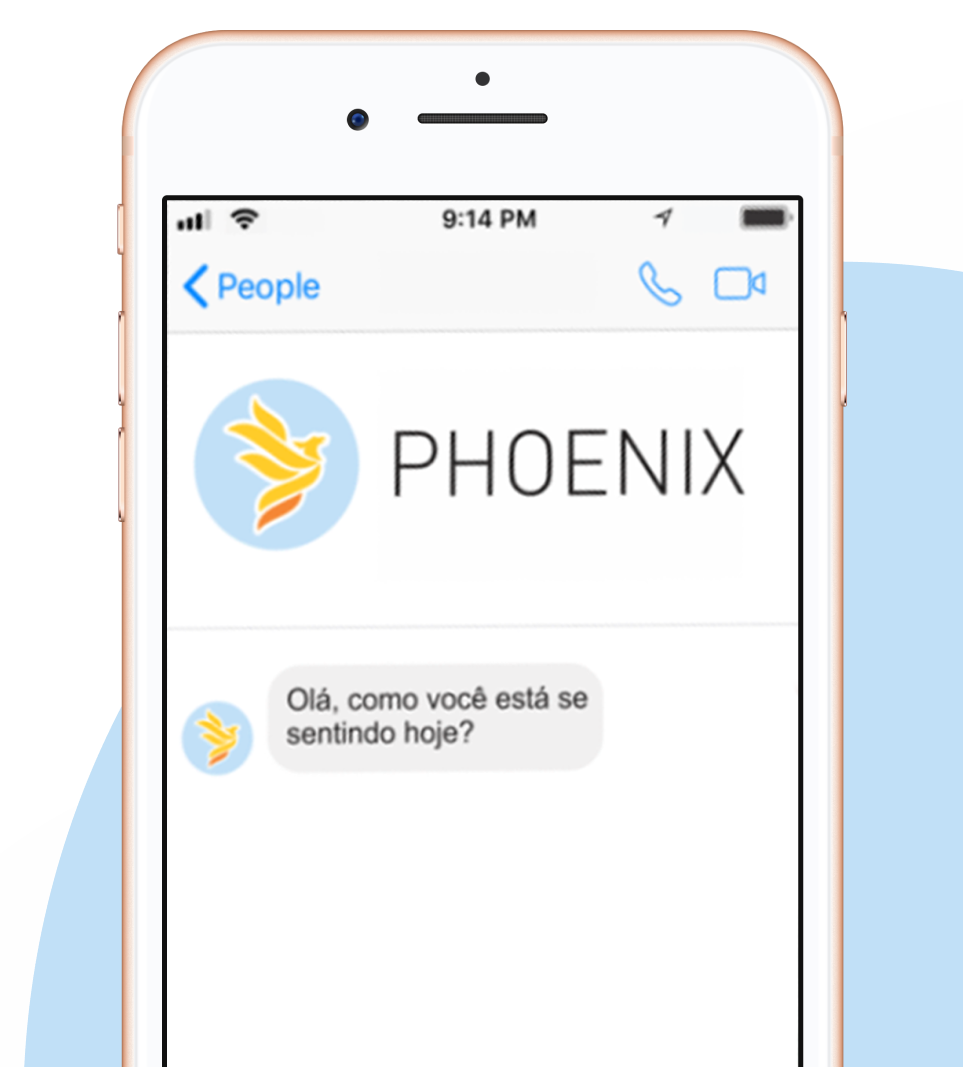
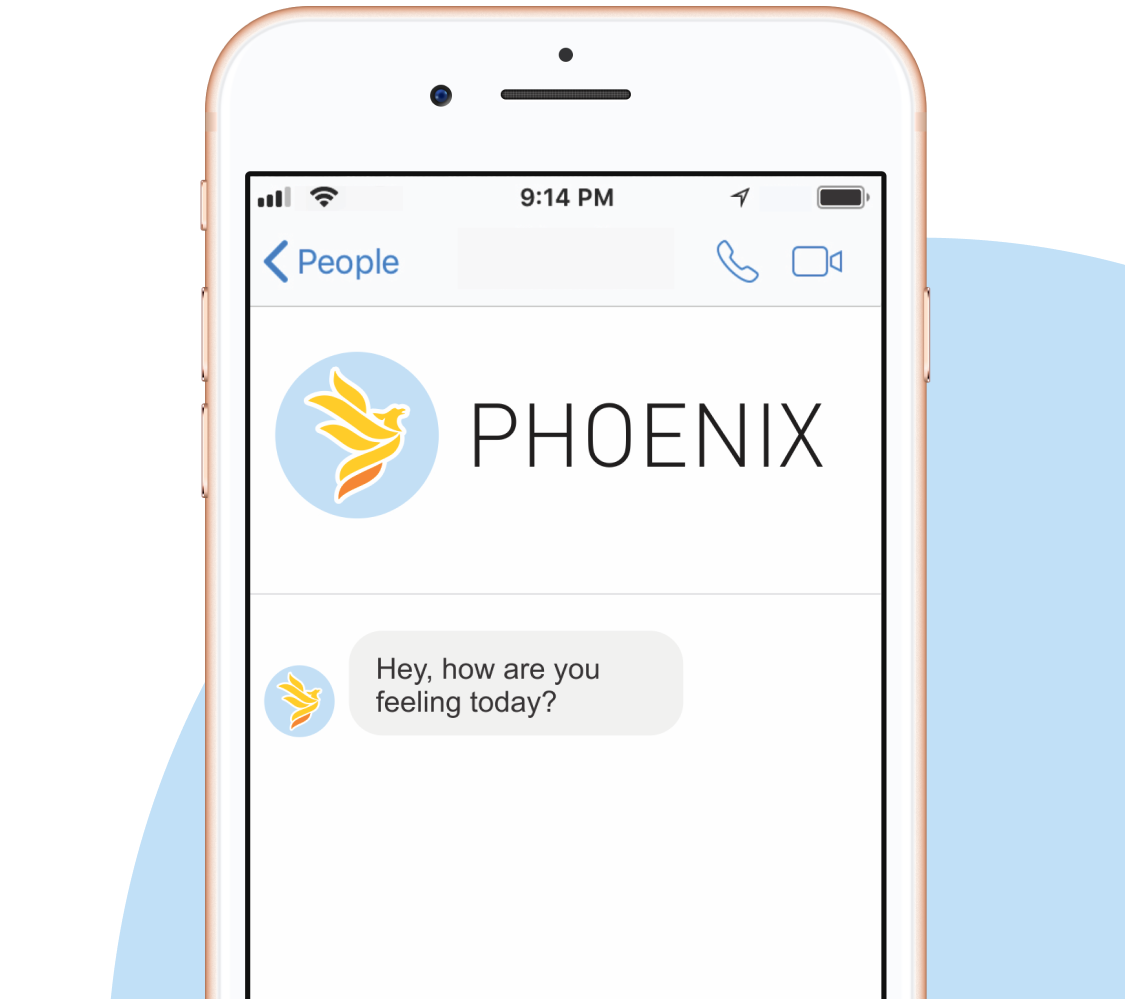
otimizar img

Changed region(s): [[0.0, 0.0, 0.9034, 1.0], [0.9346, 0.2482, 1.0, 0.2793]]

diff --git a/css/index.css b/css/index.css
@@ -1,5 +1,9 @@
 /* Home section */
-.phoneimg_mobile, .subtext_mobile, hr, .logo_mobile {
+
+.phoneimg_mobile,
+.subtext_mobile,
+hr,
+.logo_mobile {
     display: none;
 }
 
@@ -18,7 +22,7 @@
 }
 
 .phoneimg {
-    height: 75vh;
+    height: 80vh;
     right: 0;
     bottom: 0;
 }
@@ -29,28 +33,32 @@
     bottom: 0;
 }
 
-.sobre, .contato {
+.sobre,
+.contato {
     margin-top: 6vh;
     position: relative;
     height: 65vh;
     margin-bottom: 4vh;
 }
 
-.phoenixtxt, .contatoimg {
+.phoenixtxt,
+.contatoimg {
     width: 50vw;
     height: 90%;
     position: absolute;
     left: 0;
 }
 
-.phoeniximg, .contatotxt {
+.phoeniximg,
+.contatotxt {
     width: 50vw;
     height: 90%;
     position: absolute;
     right: 0;
 }
 
-.imgleft, .imgright {
+.imgleft,
+.imgright {
     background: url(../assets/contact.png);
     right: 10%;
     position: absolute;
@@ -115,7 +123,7 @@
     color: #727F84;
 }
 
-.contatoitem{
+.contatoitem {
     text-align: left;
     padding-left: 4%;
     padding-right: 20%;
@@ -172,29 +180,29 @@
 .idcard {
     display: flex;
     padding: 5vh;
-
 }
 
-.idtext{
+.idtext {
     padding: 5vh;
 }
 
-.devs{
-display: flex;
-align-content: center;
-width: fit-content;
+.devs {
+    display: flex;
+    align-content: center;
+    width: fit-content;
 }
-.socialmediaright{
+
+.socialmediaright {
     display: flex;
     float: right;
 }
 
-.socialmedialeft{
+.socialmedialeft {
     display: flex;
     float: left;
 }
 
-.smico{
+.smico {
     height: 6vh;
     padding: 1vh;
 }
@@ -212,7 +220,7 @@ width: fit-content;
     margin-bottom: 0;
 }
 
-.premios{
+.premios {
     margin-left: auto;
     margin-right: auto;
     display: table;
@@ -220,10 +228,10 @@ width: fit-content;
     margin-bottom: 10vh;
 }
 
-.premiaçoes{
+.premiaçoes {
     width: 80vw;
 }
 
-.premiaçoes_mobile{
+.premiaçoes_mobile {
     display: none;
 }

diff --git a/br.html b/br.html
@@ -43,8 +43,8 @@
             <img class="navimg" src="assets/logo.png" alt="Phoenix">
         </div>
         <!-- MOBILE -->
-        <img class="phoneimg" src="assets/phone.png" alt="Phoenix">
-        <img class="phoneimg_mobile" src="assets/phonemobile.png" alt="Phoenix">
+        <img class="phoneimg" src="assets/telefone.png" alt="Phoenix">
+        <img class="phoneimg_mobile" src="assets/telefonemobile.png" alt="Phoenix">
         <img class="subtext" src="assets/texto.svg" alt="Phoenix">
         <img class="subtext_mobile" src="assets/texto_mobile.svg" alt="Phoenix">
     </div>
